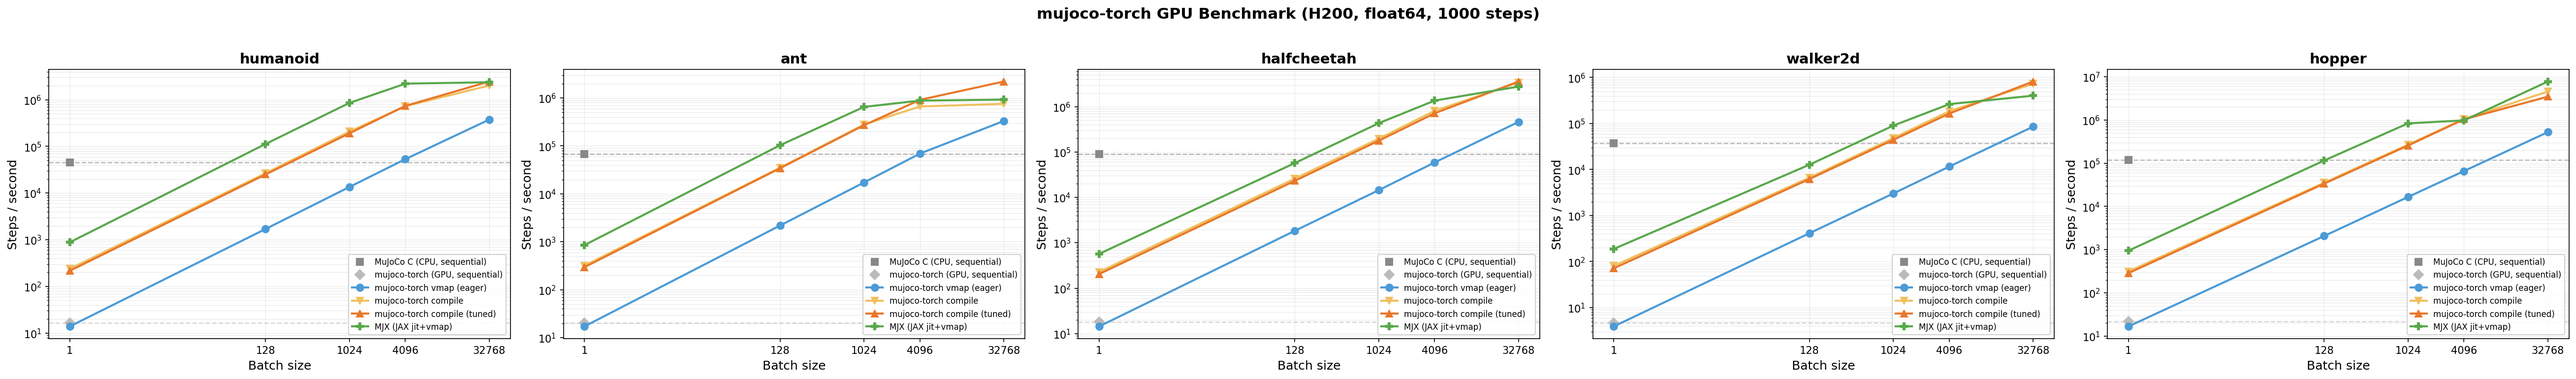
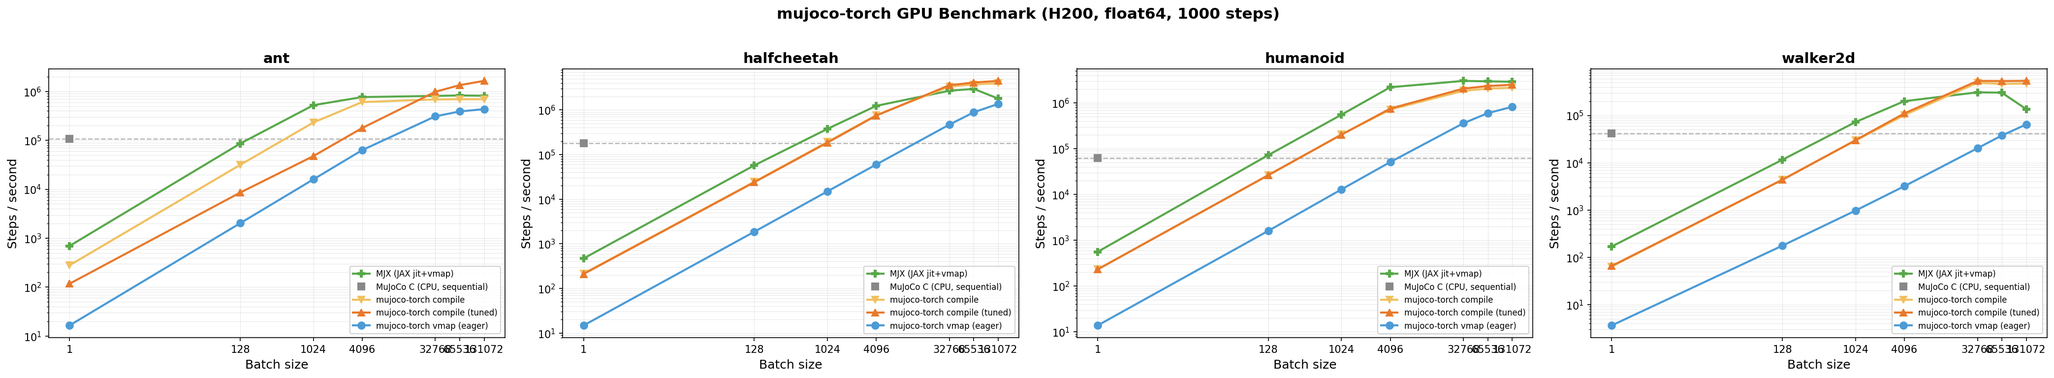
[Docs] Refresh benchmark tables + figure from 305299 sweep
Full sweep on slurm job 305299 (H200, float64, 1000 steps) across all 4
envs × 7 batch sizes × 5 configurations (MuJoCo C CPU, torch vmap, torch
compile, torch compile+tuned, MJX jit+vmap). Extends tables from B=32 768
to B=131 072 to surface saturation behavior (compile (tuned) continues
scaling where MJX plateaus). Methodology note updated to reflect the
bench_all.py reproduction path (1 000 timed steps after 100 warmup).

diff --git a/README.md b/README.md
@@ -182,46 +182,46 @@ are measured at B=1 since they scale linearly.  All values are **steps/second**
 
 ### Humanoid
 
-| Configuration | B=1 | B=128 | B=1 024 | B=4 096 | B=32 768 |
-|---|--:|--:|--:|--:|--:|
-| MuJoCo C (CPU, sequential) | 45,622 | — | — | — | — |
-| mujoco-torch vmap (eager) | 14 | 1,698 | 13,522 | 53,373 | 376,740 |
-| mujoco-torch compile | 239 | 26,588 | 208,210 | 729,306 | 2,018,703 |
-| **mujoco-torch compile (tuned)** | **216** | **25,064** | **191,248** | **738,973** | **2,461,347** |
-| MJX (JAX jit+vmap) | 880 | 112,841 | 856,331 | 2,214,655 | 2,376,552 |
+| Configuration | B=1 | B=128 | B=1 024 | B=4 096 | B=32 768 | B=65 536 | B=131 072 |
+|---|--:|--:|--:|--:|--:|--:|--:|
+| MuJoCo C (CPU, sequential) | 62,331 | — | — | — | — | — | — |
+| mujoco-torch vmap (eager) | 14 | 1,612 | 12,951 | 51,089 | 360,289 | 597,784 | 822,304 |
+| mujoco-torch compile | 232 | 26,383 | 204,938 | 716,332 | 1,838,902 | 2,051,061 | 2,157,184 |
+| **mujoco-torch compile (tuned)** | **232** | **26,560** | **202,922** | **750,288** | **2,054,194** | **2,333,178** | **2,490,457** |
+| MJX (JAX jit+vmap) | 560 | 72,609 | 553,166 | 2,197,238 | 3,025,783 | 2,955,525 | 2,901,042 |
 
 ### Ant
 
-| Configuration | B=1 | B=128 | B=1 024 | B=4 096 | B=32 768 |
-|---|--:|--:|--:|--:|--:|
-| MuJoCo C (CPU, sequential) | 68,369 | — | — | — | — |
-| mujoco-torch vmap (eager) | 17 | 2,195 | 17,312 | 69,316 | 331,964 |
-| mujoco-torch compile | 318 | 35,224 | 280,284 | 664,325 | 753,962 |
-| **mujoco-torch compile (tuned)** | **296** | **34,391** | **270,840** | **914,892** | **2,203,204** |
-| MJX (JAX jit+vmap) | 852 | 103,651 | 652,280 | 880,360 | 923,870 |
+| Configuration | B=1 | B=128 | B=1 024 | B=4 096 | B=32 768 | B=65 536 | B=131 072 |
+|---|--:|--:|--:|--:|--:|--:|--:|
+| MuJoCo C (CPU, sequential) | 108,133 | — | — | — | — | — | — |
+| mujoco-torch vmap (eager) | 16 | 2,025 | 15,919 | 62,928 | 309,175 | 388,585 | 433,904 |
+| mujoco-torch compile | 279 | 31,517 | 231,249 | 605,029 | 684,886 | 690,486 | 691,788 |
+| **mujoco-torch compile (tuned)** | **117** | **8,561** | **47,573** | **178,229** | **981,050** | **1,341,747** | **1,638,131** |
+| MJX (JAX jit+vmap) | 693 | 85,873 | 522,176 | 765,381 | 807,987 | 825,012 | 813,614 |
 
 ### Half-Cheetah
 
-| Configuration | B=1 | B=128 | B=1 024 | B=4 096 | B=32 768 |
-|---|--:|--:|--:|--:|--:|
-| MuJoCo C (CPU, sequential) | 90,617 | — | — | — | — |
-| mujoco-torch vmap (eager) | 14 | 1,838 | 14,479 | 58,947 | 461,065 |
-| mujoco-torch compile | 228 | 26,062 | 196,898 | 812,800 | 3,402,872 |
-| **mujoco-torch compile (tuned)** | **205** | **23,247** | **177,522** | **714,743** | **3,577,821** |
-| MJX (JAX jit+vmap) | 570 | 57,199 | 432,451 | 1,360,843 | 2,767,736 |
+| Configuration | B=1 | B=128 | B=1 024 | B=4 096 | B=32 768 | B=65 536 | B=131 072 |
+|---|--:|--:|--:|--:|--:|--:|--:|
+| MuJoCo C (CPU, sequential) | 179,607 | — | — | — | — | — | — |
+| mujoco-torch vmap (eager) | 15 | 1,863 | 14,974 | 59,903 | 469,505 | 886,691 | 1,366,018 |
+| mujoco-torch compile | 215 | 24,480 | 191,728 | 765,819 | 3,343,947 | 3,724,683 | 3,970,075 |
+| **mujoco-torch compile (tuned)** | **211** | **23,999** | **185,761** | **745,732** | **3,584,003** | **4,122,131** | **4,479,824** |
+| MJX (JAX jit+vmap) | 470 | 57,302 | 376,552 | 1,235,532 | 2,693,183 | 2,968,019 | 1,800,632 |
 
 ### Walker2d
 
 Walker2d uses the RK4 integrator, which makes each step ~3× more expensive
 than Euler.
 
-| Configuration | B=1 | B=128 | B=1 024 | B=4 096 | B=32 768 |
-|---|--:|--:|--:|--:|--:|
-| MuJoCo C (CPU, sequential) | 37,081 | — | — | — | — |
-| mujoco-torch vmap (eager) | 4 | 413 | 3,024 | 11,631 | 85,794 |
-| mujoco-torch compile | 80 | 6,682 | 48,246 | 185,602 | 730,468 |
-| **mujoco-torch compile (tuned)** | **71** | **6,235** | **44,274** | **165,182** | **817,718** |
-| MJX (JAX jit+vmap) | 188 | 12,753 | 90,246 | 264,193 | 402,604 |
+| Configuration | B=1 | B=128 | B=1 024 | B=4 096 | B=32 768 | B=65 536 | B=131 072 |
+|---|--:|--:|--:|--:|--:|--:|--:|
+| MuJoCo C (CPU, sequential) | 42,232 | — | — | — | — | — | — |
+| mujoco-torch vmap (eager) | 4 | 177 | 975 | 3,192 | 20,291 | 37,710 | 64,563 |
+| mujoco-torch compile | 64 | 4,348 | 29,570 | 101,431 | 490,919 | 463,347 | 471,967 |
+| **mujoco-torch compile (tuned)** | **66** | **4,380** | **29,963** | **110,369** | **537,248** | **533,513** | **537,856** |
+| MJX (JAX jit+vmap) | 169 | 11,565 | 72,567 | 200,463 | 308,394 | 302,793 | 136,074 |
 
 ### Hopper
 
@@ -240,18 +240,25 @@ enabled (`torch._inductor.config.coordinate_descent_tuning`,
 `aggressive_fusion`).  Adds ~40 min extra compile warmup but produces faster
 kernels at runtime.
 
-**Methodology.**  Each configuration runs 100 steps after warmup (5 compile
-iterations for compiled variants, 1 JIT warmup for MJX).  Wall-clock time is
+**Methodology.**  Each configuration runs 1 000 timed steps after 100 warmup
+steps (the warmup triggers compile/JIT on the first call).  Wall-clock time is
 measured with `torch.cuda.synchronize()` / `jax.block_until_ready()` bracketing.
-Steps/s = `batch_size × nsteps / elapsed_time`.  Single GPU
-(`CUDA_VISIBLE_DEVICES=0`), dtype=float64.
+Steps/s = `batch_size × nsteps / elapsed_time`.  Measured on a single NVIDIA
+H200, dtype=float64.
 
-To reproduce, run the pytest-benchmark suite (requires the PyTorch fork above):
+To reproduce a single (env, mode, backend) run:
 
 ```bash
-CUDA_VISIBLE_DEVICES=0 python -m pytest benchmarks/ -v \
-    --benchmark-json=bench_results.json
-python benchmarks/plot_bench.py bench_results.json -o assets/benchmark.png
+python examples/bench_all.py --env humanoid --mode compile --backend torch \
+    --batch_sizes 1 128 1024 4096 32768 65536 131072 \
+    --out bench_results.jsonl --tuned
+```
+
+Then aggregate and plot:
+
+```bash
+python examples/bench_all_to_plot.py bench_results*.jsonl -o results.json
+python benchmarks/plot_bench.py results.json -o assets/benchmark.png
 ```
 
 ## Testing
